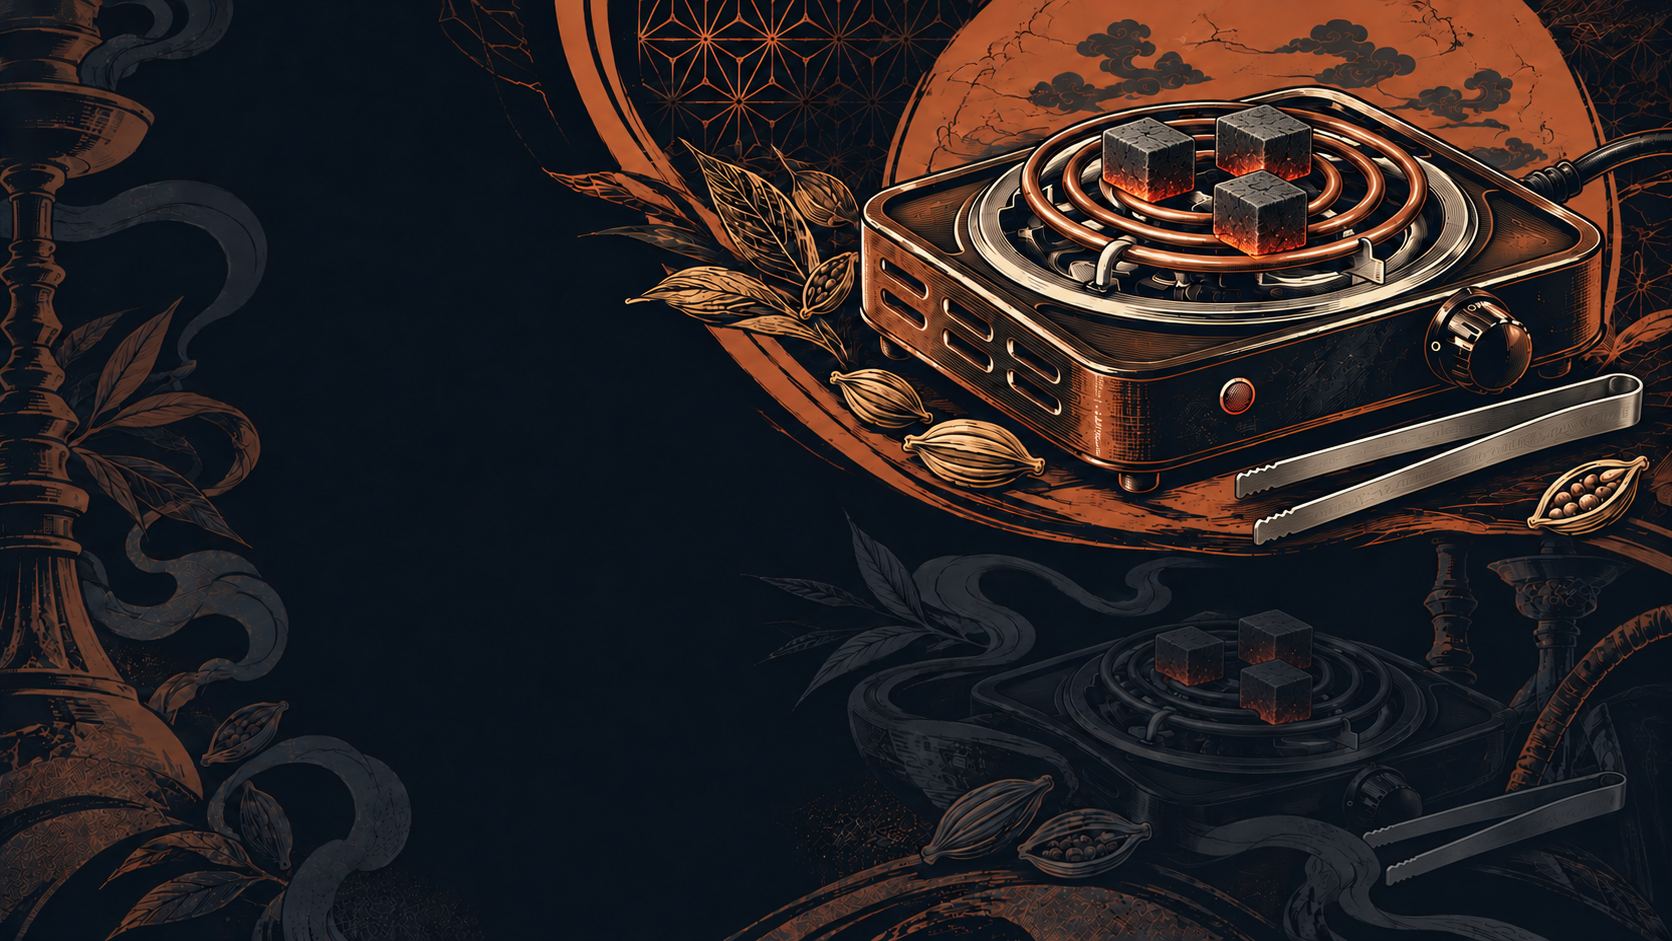
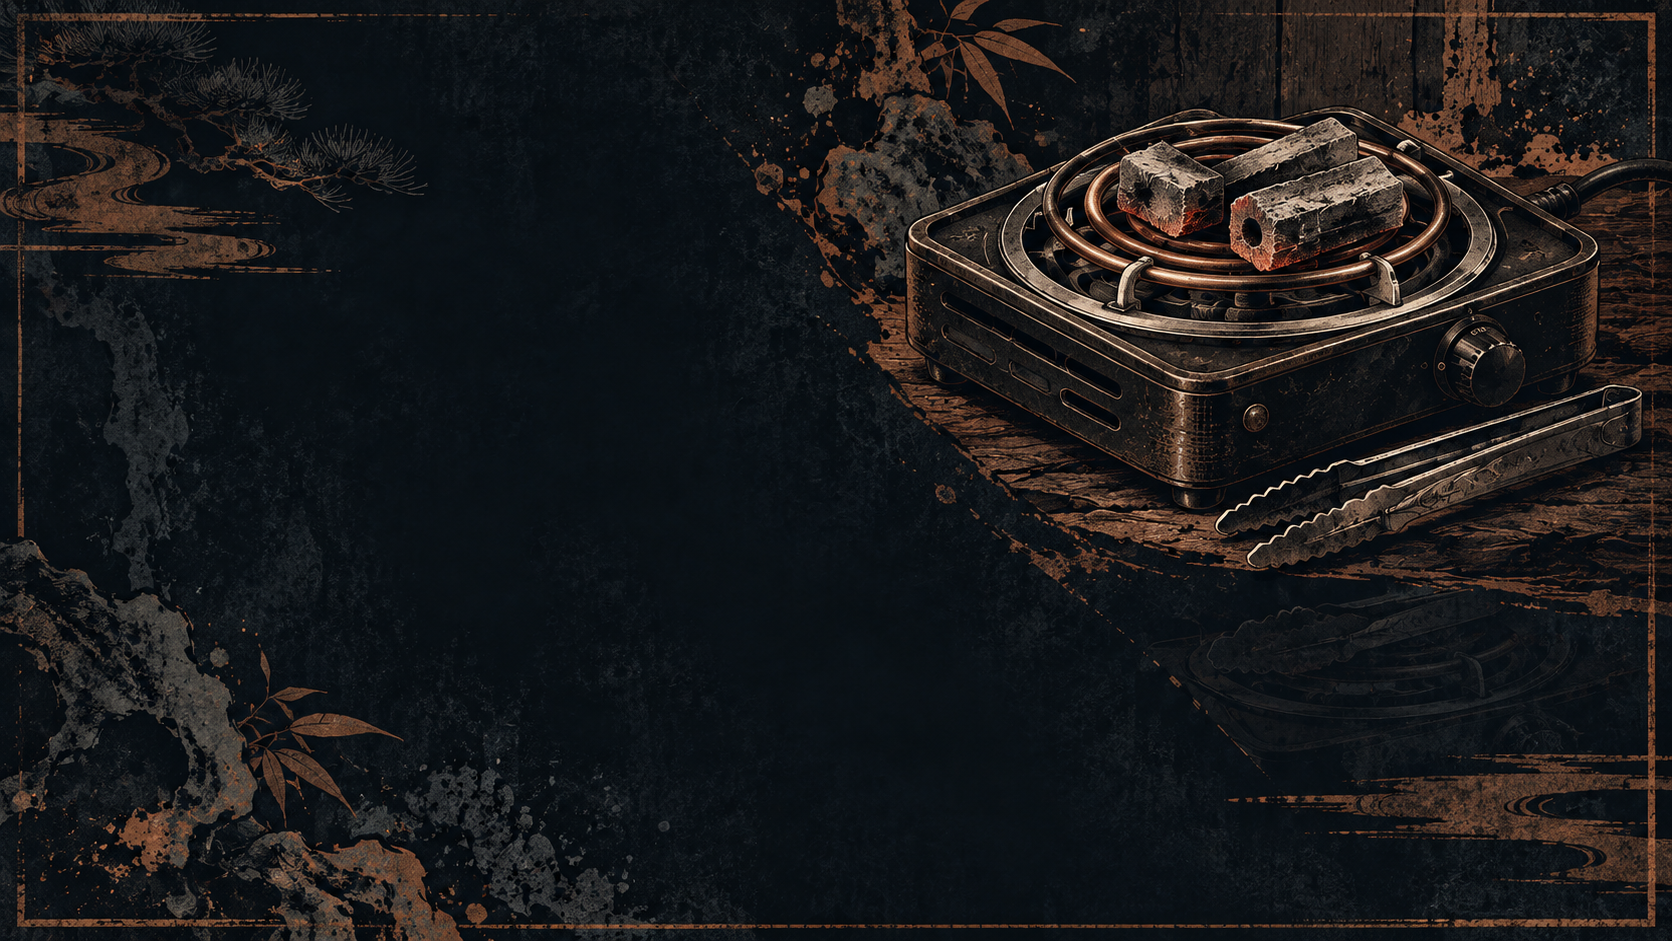
Adopt owner-approved shibui oga charcoal background for Sumi (#750)

diff --git a/asset_sources/character-intros/sumi-coal-issue750/shibui-oga/README.md b/asset_sources/character-intros/sumi-coal-issue750/shibui-oga/README.md
@@ -1,14 +1,23 @@
-# スミ登場背景：渋い雰囲気・オガ炭の候補
+# スミ登場背景：採用した渋いオガ炭版
 
-2026-10-25 JST、オーナー指定「もっと渋い感じ」「おがずみ」に沿う比較用原画。旧source-v1.pngを保全し、この原画だけで本編の採用画像を上書きしない。
+2026-10-25 JST、オーナー指定「もっと渋い感じ」「おがずみ」に沿って制作。2026-10-26 JSTに本チャットで「オガ炭版を採用」と確認を得た。旧source-v1.png・旧v3は保全し、採用対象の背景だけを本編PNGと対応するlossless WebPへ反映する。人物・肩書・台詞・組版は変更しない。
 
 ![渋いオガ炭版](candidate.png)
 
 - 内蔵image_genで既存preview-v1.webpを参照し、1回編集。人物・台詞・ゲーム進行は変更なし。
 - 紺黒・くすんだ銅色へ抑え、巨大な橙色の円と派手な葉飾りを減らす。電気コンロと実用的なトングを中心にする。
-- 3片の成形オガ炭を横置き。手前の縦穴と鈍い赤熱、灰の表面を目視。溶岩状の角炭・炎・炭からの煙を避けた。
+- 2片の成形オガ炭を横置き。手前の縦穴と鈍い赤熱、灰の表面を目視。溶岩状の角炭・炎・炭からの煙を避けた（旧記録の「3片」は原画の数と異なるため訂正）。
 - 左の人物領域と中央の名前帯用の空きを残す。右下の引用文領域への装飾は薄い。
-- 未採用候補。実cut-inへの合成、PC/横タッチ、実物写真との精密構造・縮尺照合は未実施。焼き器具の実用・安全の実証ではない。
+- 2026-10-26に実cut-inのPC（1280×720）と横タッチ（844×390）を確認。文字・人物と炭の重なり、動き軽減時の表示を目視し、文字要素が画面内に収まることを測定。実物写真との精密構造・縮尺照合と実機スマホは未実施。焼き器具の実用・安全の実証ではない。
+
+## 本編での比較
+
+| 変更前 | 採用したオガ炭版 |
+|---|---|
+| ![変更前PC](qa/current-pc.png) | ![採用PC](qa/oga-candidate-pc.png) |
+| ![変更前横タッチ](qa/current-touch.png) | ![採用横タッチ](qa/oga-candidate-touch.png) |
+
[1 lines of base64/hex data omitted]
 
 ## 編集指示の要点
 
